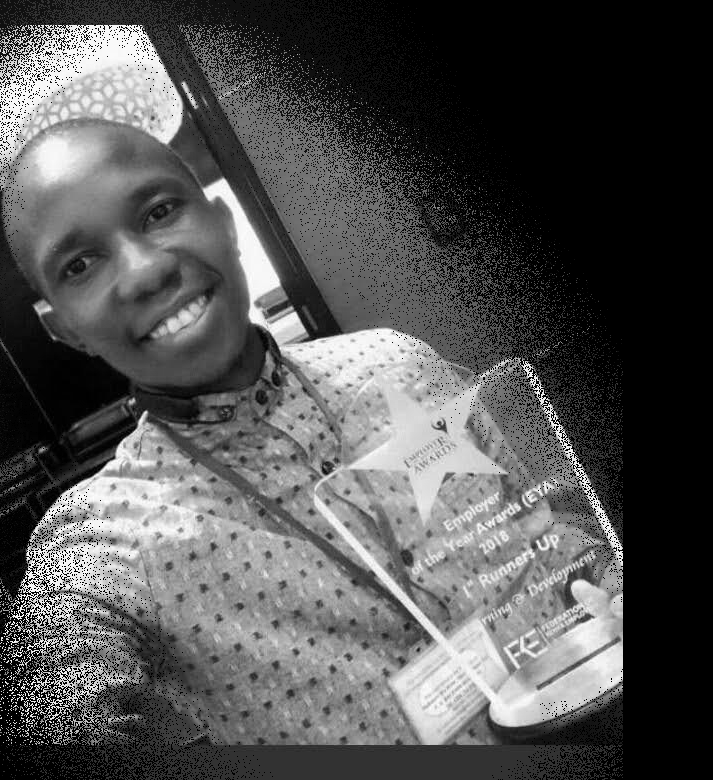
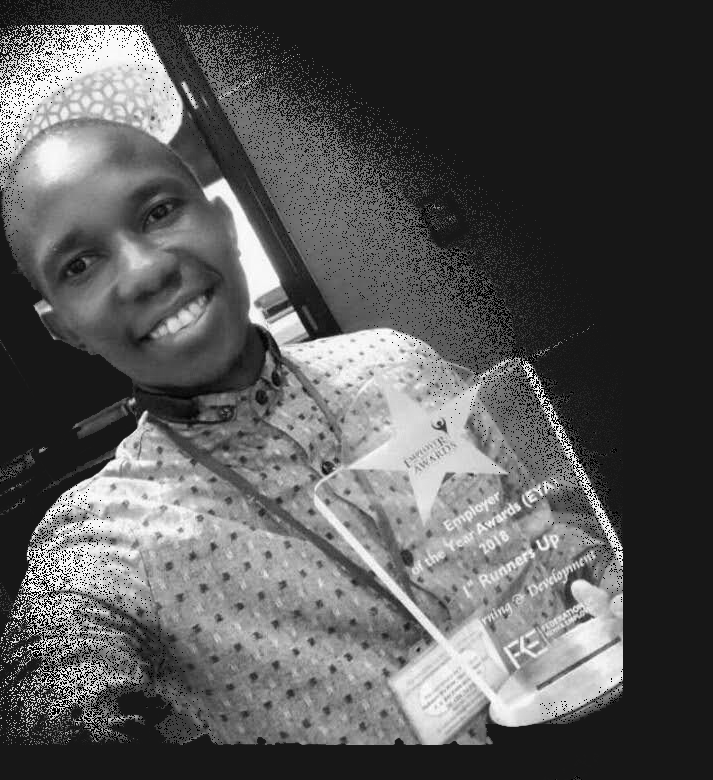
landing page image

Changed region(s): [[0.0, 0.7385, 0.864, 1.0], [0.5863, 0.2462, 0.864, 0.5846], [0.0, 0.6154, 0.0309, 0.6462]]

diff --git a/index.html b/index.html
@@ -90,7 +90,7 @@
             </div>
             <!--header image-->
             <div class="header-image">
-            <img src="images/man.png" alt="logo">
+            <img src="images/man_colored.png" alt="logo">
             </div>
             <!--header image end-->
         </div>
